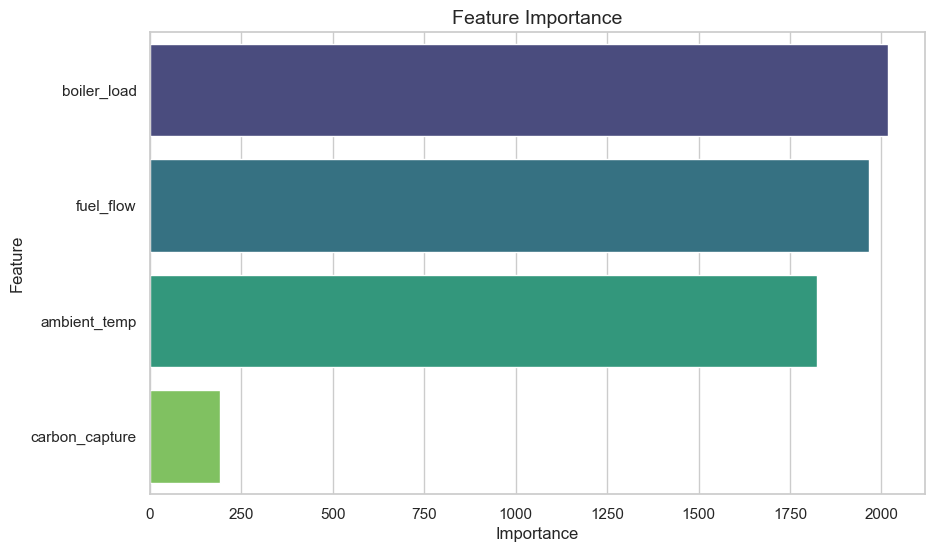
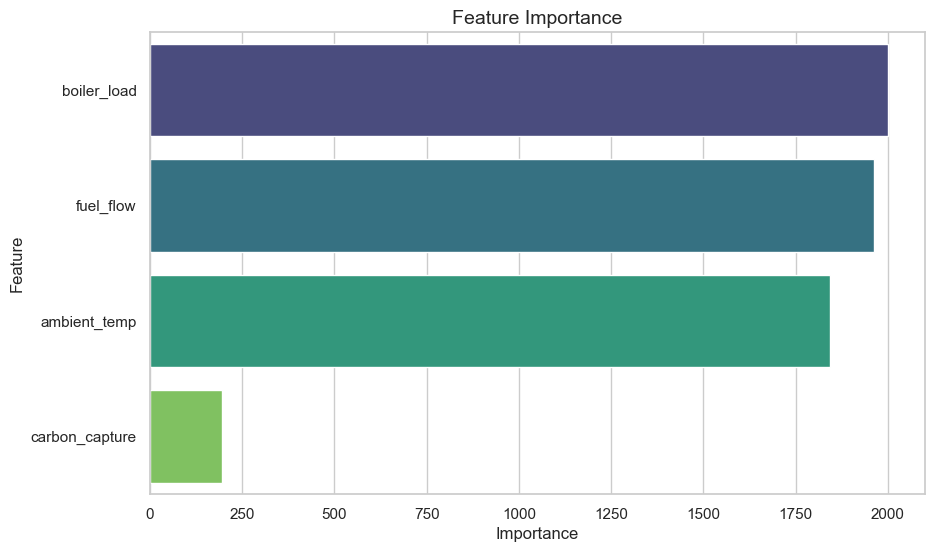
..md file added

diff --git a/backend/train.py b/backend/train.py
@@ -7,7 +7,6 @@ import matplotlib.pyplot as plt
 import seaborn as sns
 
 from sklearn.model_selection import train_test_split
-from sklearn.preprocessing import StandardScaler
 from sklearn.metrics import accuracy_score, f1_score, confusion_matrix, roc_curve, auc, r2_score, mean_absolute_error, mean_squared_error
 from sklearn.ensemble import IsolationForest
 import lightgbm as lgb
@@ -30,7 +29,7 @@ def generate_synthetic_data(num_samples=2000):
         'co2_emission': co2_emission
     })
 
-def generate_and_save_plots(model, anomaly_detector, X_test_scaled, y_test_binary, test_preds_binary, feature_columns, numeric_cols, df_original, scaler):
+def generate_and_save_plots(model, anomaly_detector, X_test_scaled, y_test_binary, test_preds_binary, feature_columns, numeric_cols, df_original):
     """Generates and saves all essential machine learning visualizations."""
     print("\nGenerating evaluation plots...")
     os.makedirs("plots", exist_ok=True)
@@ -73,13 +72,11 @@ def generate_and_save_plots(model, anomaly_detector, X_test_scaled, y_test_binar
 
     # --- 4. Anomaly Scatter Plot ---
     plt.figure(figsize=(10, 6))
-    X_all_scaled_numeric = scaler.transform(df_original[numeric_cols])
-    X_all_scaled = df_original.copy()
-    X_all_scaled[numeric_cols] = X_all_scaled_numeric
-    X_all_scaled = X_all_scaled[feature_columns]
-    
+    # Data is already normalized [0,1] — use feature columns directly
+    X_all = df_original[feature_columns]
+
     df_plot = df_original.copy()
-    df_plot['Anomaly_Status'] = anomaly_detector.predict(X_all_scaled)
+    df_plot['Anomaly_Status'] = anomaly_detector.predict(X_all)
     df_plot['Anomaly_Status'] = df_plot['Anomaly_Status'].map({1: 'Normal', -1: 'Anomaly'})
     
     sns.scatterplot(data=df_plot, x='fuel_flow', y='boiler_load', 
@@ -112,14 +109,11 @@ def train_model(csv_path=None):
     print("Splitting dataset 80/20...")
     X_train, X_test, y_train, y_test = train_test_split(X, y, test_size=0.2, random_state=42)
 
-    print("Scaling features...")
-    scaler = StandardScaler()
+    # Features are already Min-Max normalized [0, 1] in the CSV — no scaling needed.
+    print("Skipping StandardScaler — features are already normalized [0, 1].")
     numeric_cols = ['fuel_flow', 'boiler_load', 'ambient_temp']
-    
     X_train_scaled = X_train.copy()
     X_test_scaled = X_test.copy()
-    X_train_scaled[numeric_cols] = scaler.fit_transform(X_train[numeric_cols])
-    X_test_scaled[numeric_cols] = scaler.transform(X_test[numeric_cols])
 
     # ENGINE 1: LightGBM REGRESSOR
     print("Training LightGBM Regressor...")
@@ -139,7 +133,7 @@ def train_model(csv_path=None):
     anomaly_detector.fit(X_train_scaled)
 
     # Generate Plots
-    generate_and_save_plots(model, anomaly_detector, X_test_scaled, y_test_binary, test_preds_binary, feature_columns, numeric_cols, df, scaler)
+    generate_and_save_plots(model, anomaly_detector, X_test_scaled, y_test_binary, test_preds_binary, feature_columns, numeric_cols, df)
 
     # Compile Hybrid Metrics
     metrics = {
@@ -163,8 +157,8 @@ def train_model(csv_path=None):
     joblib.dump(anomaly_detector, "anomaly_detector.pkl")
     
     joblib.dump({
-        "scaler": scaler, 
-        "feature_columns": feature_columns, 
+        "scaler": None,  # No scaling needed — CSV features are already normalized [0, 1]
+        "feature_columns": feature_columns,
         "threshold": float(EMISSION_THRESHOLD)
     }, "preprocessor.joblib")
     

diff --git a/Anamoly_detection.md b/Anamoly_detection.md
@@ -1,0 +1,222 @@
+# EcoGrid — Anomaly Detection Workflow
+
+## Overview
+
+**EcoGrid** uses a **Dual-Engine ML Architecture** to monitor CO₂ emissions from thermal power plants. Engine 1 predicts *how much* CO₂ is emitted; Engine 2 acts as an unsupervised **anomaly watchdog** that flags physically impossible or dangerous sensor states — independent of the CO₂ value.
+
+---
+
+## 1.  The Dataset
+
+**File:** `backend/data/processed_synthetic_data_30days.csv`
+
+| Property | Value |
+|---|---|
+| Total rows | **86,400** (1 reading/minute × 60 mins × 24 hrs × 30 days) |
+| Total columns | 7 |
+| Time range | 2025-10-11 → 30 days of simulation |
+
+### Columns
+
+| Column | Type | Range | Description |
+|---|---|---|---|
+| `timestamp` | string | — | Per-minute timestamp |
+| `plant_type` | string | Coal | Plant category |
+| `fuel_flow` | float | 0.0 – 1.0 | Normalized fuel consumption rate (tons/hr) |
+| `boiler_load` | float | 0.0 – 1.0 | Normalized boiler power output (MW) |
+| `ambient_temp` | float | 0.0 – 1.0 | Normalized external temperature (°C) |
+| `carbon_capture` | int | 0 or 1 | Carbon capture system ON/OFF |
+| `co2_emission` | float | 4.34 – 15.0 | Target: CO₂ emission in g/kWh |
+
+>
+
+### CO₂ Emission Statistics
+
+| Statistic | Value |
+|---|---|
+| Mean | 8.83 g/kWh |
+| Median (dynamic threshold) | **~8.14 g/kWh** |
+| Std Dev | 2.68 |
+| Min / Max | 4.34 / 15.0 |
+
+---
+
+## 2.  Training Pipeline (`train.py`)
+
+```mermaid
+flowchart TD
+    A[" Load CSV\n86,400 rows × 7 cols"] --> B[" Feature Selection\nfuel_flow, boiler_load,\nambient_temp, carbon_capture"]
+    B --> C[" Dynamic Threshold\nEMISSION_THRESHOLD = median(co2_emission)\n≈ 8.14 g/kWh"]
+    C --> D[" Train / Test Split\n80% Train · 20% Test\nrandom_state=42"]
+    D --> E[" StandardScaler\nFit on numeric cols of train set\nTransform both splits"]
+
+    E --> F[" Engine 1\nLightGBM Regressor\nn_estimators=200\nlearning_rate=0.05\nmax_depth=8"]
+    E --> G[" Engine 2\nIsolation Forest\nn_estimators=100\ncontamination=0.05\nFit on X_train_scaled"]
+
+    F --> H[" Regression Output\nPredicts exact CO₂ value"]
+    H --> I[" Binary Classification\nPred > threshold → High\nPred ≤ threshold → Normal"]
+
+    G --> J[" Anomaly Labels\n+1 = Normal\n-1 = Anomaly"]
+
+    I --> K[" Evaluation & Plots\nConfusion Matrix, ROC, Feature Importance,\nAnomaly Scatter"]
+    J --> K
+
+    K --> L[" Save Artifacts\nmodel.pkl · anomaly_detector.pkl\npreprocessor.joblib · metadata.json"]
+```
+
+---
+
+## 3.  How Isolation Forest Detects Anomalies
+
+**Isolation Forest** is an *unsupervised* algorithm — it **does not need CO₂ labels** to detect anomalies. It learns the *shape of normal operational data* and flags outliers.
+
+### Core Mechanism
+
+```mermaid
+flowchart LR
+    A["Training Data\nX_train_scaled\n~69,120 rows"] --> B["Build 100 Isolation Trees\nRandom feature splits\nRandom threshold cuts"]
+    B --> C["Compute Anomaly Score\nShort path = Easy to isolate = Anomaly\nLong path = Hard to isolate = Normal"]
+    C --> D{"Score < threshold?\ncontamination=0.05\n(top 5% most isolated)"}
+    D -- Yes --> E[" Label: -1 (Anomaly)"]
+    D -- No --> F[" Label: +1 (Normal)"]
+```
+
+### Key Parameters
+
+| Parameter | Value | Effect |
+|---|---|---|
+| `n_estimators` | 100 | 100 isolation trees built; more = more stable scores |
+| `contamination` | 0.05 | Expects **5%** of data to be anomalous; sets the decision threshold |
+| `random_state` | 42 | Reproducibility |
+
+### What Gets Flagged as Anomalous?
+
+The model learns the **joint distribution** of all 4 features together. It will flag combinations that are statistically rare in the training set, such as:
+
+-  **Max fuel flow + near-zero boiler load** → physically impossible, likely sensor failure
+-  **Extreme ambient temperature** with contradictory operational readings
+-  **Sensor drift** — values slowly creeping outside learned normal bounds
+-  Any feature vector that lies far from the dense training cluster
+
+---
+
+## 4.  Inference Pipeline (`main.py`)
+
+Every time the user submits plant readings on the frontend, both engines run in **parallel on the same preprocessed input**:
+
+```mermaid
+sequenceDiagram
+    actor User as  Operator (Browser)
+    participant API as  FastAPI /predict
+    participant PP as  Preprocessor
+    participant E1 as  LightGBM (Engine 1)
+    participant E2 as  Isolation Forest (Engine 2)
+
+    User->>API: POST /predict {fuelflow, boilerload, ambient_temp, capture_on}
+    API->>PP: Build DataFrame from raw input
+    PP->>PP: StandardScaler.transform(numeric_cols)
+    PP-->>API: df_scaled (1 row × 4 features)
+
+    par Engine 1
+        API->>E1: model.predict(df_scaled)
+        E1-->>API: co2_value (float, clipped 0–50)
+    and Engine 2
+        API->>E2: anomaly_detector.predict(df_scaled)
+        E2-->>API: +1 (Normal) or -1 (Anomaly)
+    end
+
+    API->>API: is_high_emission = co2_value > threshold (~8.14)
+    API->>API: is_anomaly = (E2 result == -1)
+
+    API-->>User: { prediction, is_high_emission, is_anomaly, status }
+```
+
+### API Response Fields
+
+| Field | Type | Meaning |
+|---|---|---|
+| `prediction` | float | Predicted CO₂ emission in g/kWh (0–50) |
+| `is_high_emission` | bool | `true` if prediction > median threshold |
+| `is_anomaly` | bool | `true` if Isolation Forest returns -1 |
+| `status` | string | `"success"` or `"failed"` |
+
+---
+
+## 5.  Frontend Response (`script.js`)
+
+The frontend reacts to all three signals independently:
+
+```mermaid
+flowchart TD
+    R["API Response"] --> A["prediction value"]
+    R --> B["is_high_emission"]
+    R --> C["is_anomaly"]
+
+    A --> D["Gauge Chart\nShows % of 50 g/kWh max"]
+    B -- true --> E[" Gauge turns RED\nborderColor = #ff3333"]
+    B -- false --> F[" Gauge stays GREEN\nborderColor = #00ff88"]
+    C -- true --> G[" anomalyAlert div\nremoves 'hidden' class\nadds 'visible' class"]
+    C -- false --> H[" Alert stays hidden"]
+```
+
+> [!IMPORTANT]
+> **`is_anomaly` and `is_high_emission` are independent signals.** A reading can be:
+> -  Normal emission AND Normal (no alert)
+> -  High emission AND Normal (gauge turns red, no watchdog alert)
+> -  Normal emission AND Anomaly (watchdog fires even though CO₂ looks fine — sensor fault!)
+> -  High emission AND Anomaly (both alerts fire simultaneously)
+
+---
+
+## 6.  Model Performance
+
+From `metadata.json`:
+
+| Metric | Value |
+|---|---|
+| Algorithm | Hybrid LGBM Regressor + Isolation Forest |
+| Train R² | 0.6822 |
+| Test R² | 0.6746 |
+| Train MAE | 1.2663 g/kWh |
+| Test MAE | **1.2852 g/kWh** |
+| Train RMSE | 1.5089 |
+| Test RMSE | **1.5313** |
+| Test Accuracy (binary) | **76.03%** |
+| Test F1 Score | **78.35%** |
+
+> [!NOTE]
+> Train ≈ Test metrics show **no overfitting** — the model generalises well to unseen data.
+
+---
+
+## 7.  Complete End-to-End Flow
+
+```mermaid
+flowchart TD
+    DS[" Raw Dataset\n86,400 rows · 30 days\n1 reading/minute"] --> FE["Feature Engineering\nSelect 4 features\nApply StandardScaler"]
+    FE --> TR1["Train LightGBM Regressor\nPredicts CO₂ continuously"]
+    FE --> TR2["Train Isolation Forest\nLearns normal operating envelope\ncontamination = 5%"]
+    TR1 --> PKL1["model.pkl"]
+    TR2 --> PKL2["anomaly_detector.pkl"]
+    FE --> PKL3["preprocessor.joblib\n(scaler + feature_cols + threshold)"]
+
+    PKL1 --> API
+    PKL2 --> API
+    PKL3 --> API
+
+    subgraph API[" FastAPI Server (main.py)"]
+        direction LR
+        IN["POST /predict"] --> SC["Scale input"] --> E1["LightGBM → CO₂ value"]
+        SC --> E2["Isolation Forest → Normal / Anomaly"]
+        E1 --> OUT["JSON Response"]
+        E2 --> OUT
+    end
+
+    API --> UI[" Frontend Dashboard"]
+    UI --> G["Gauge Chart\n(CO₂ level)"]
+    UI --> AL[" Anomaly Alert Banner\n(watchdog fires)"]
+    UI --> BC["Bar Chart\n(MAE / RMSE metrics)"]
+```
+
+---
+
